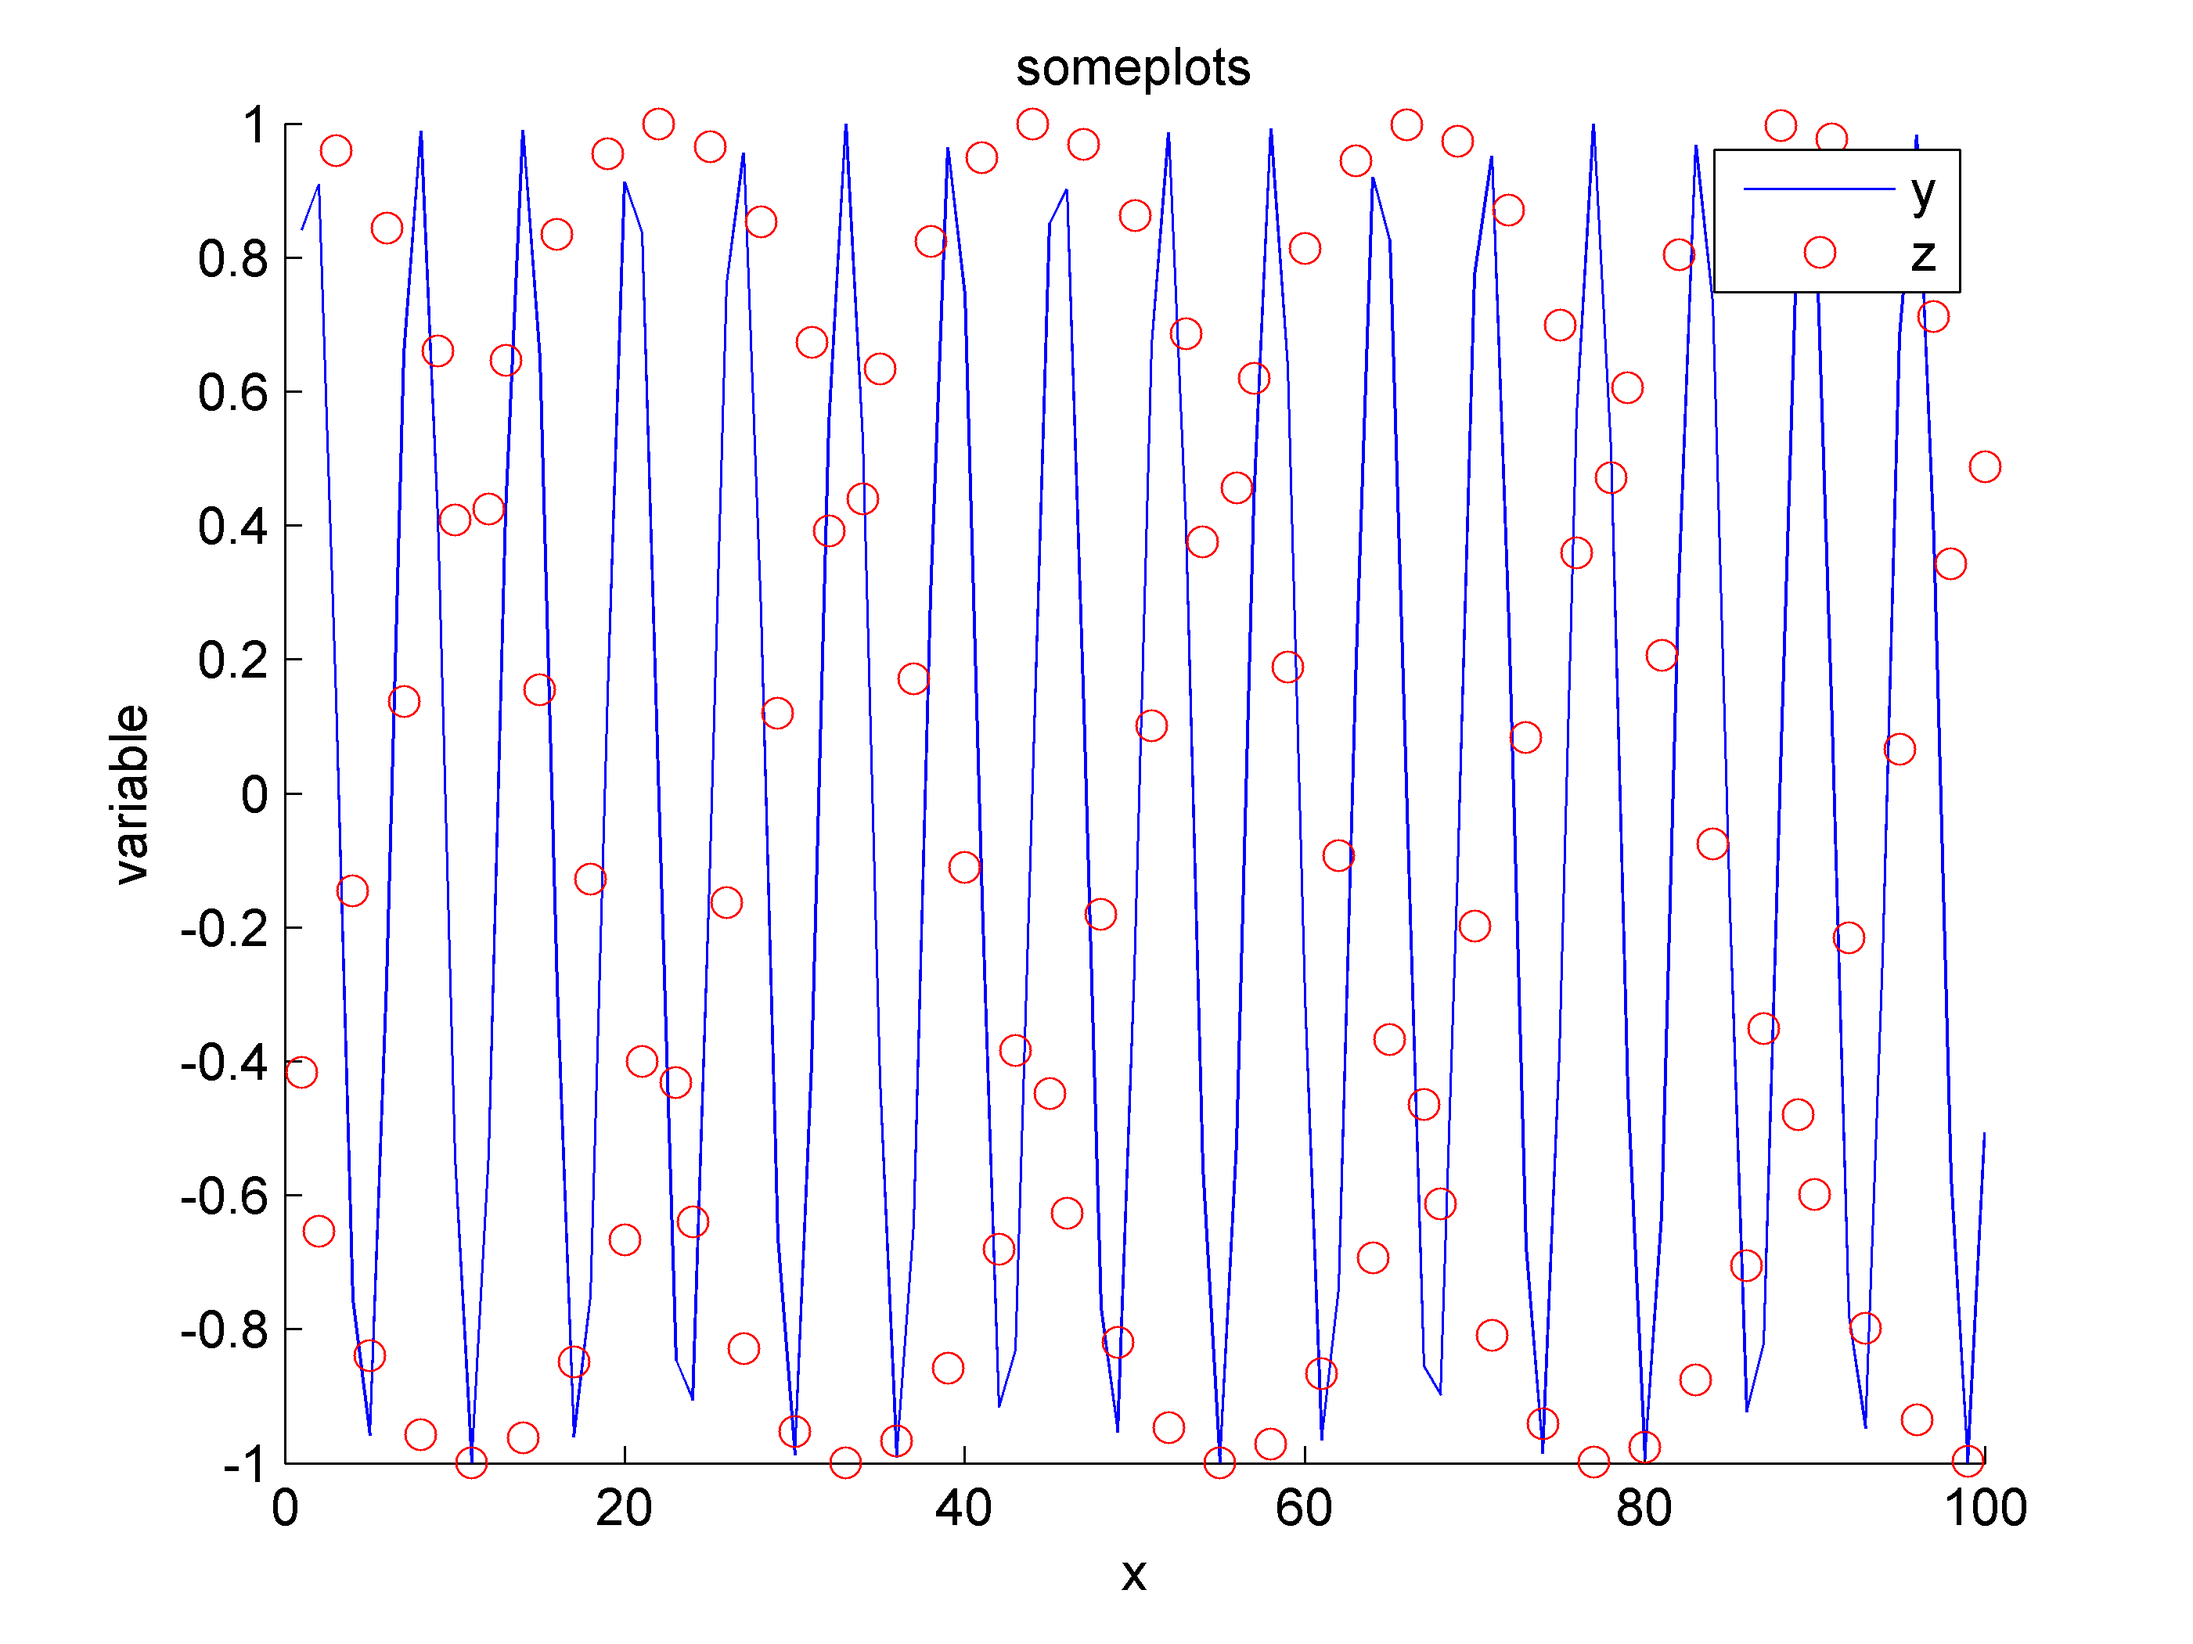
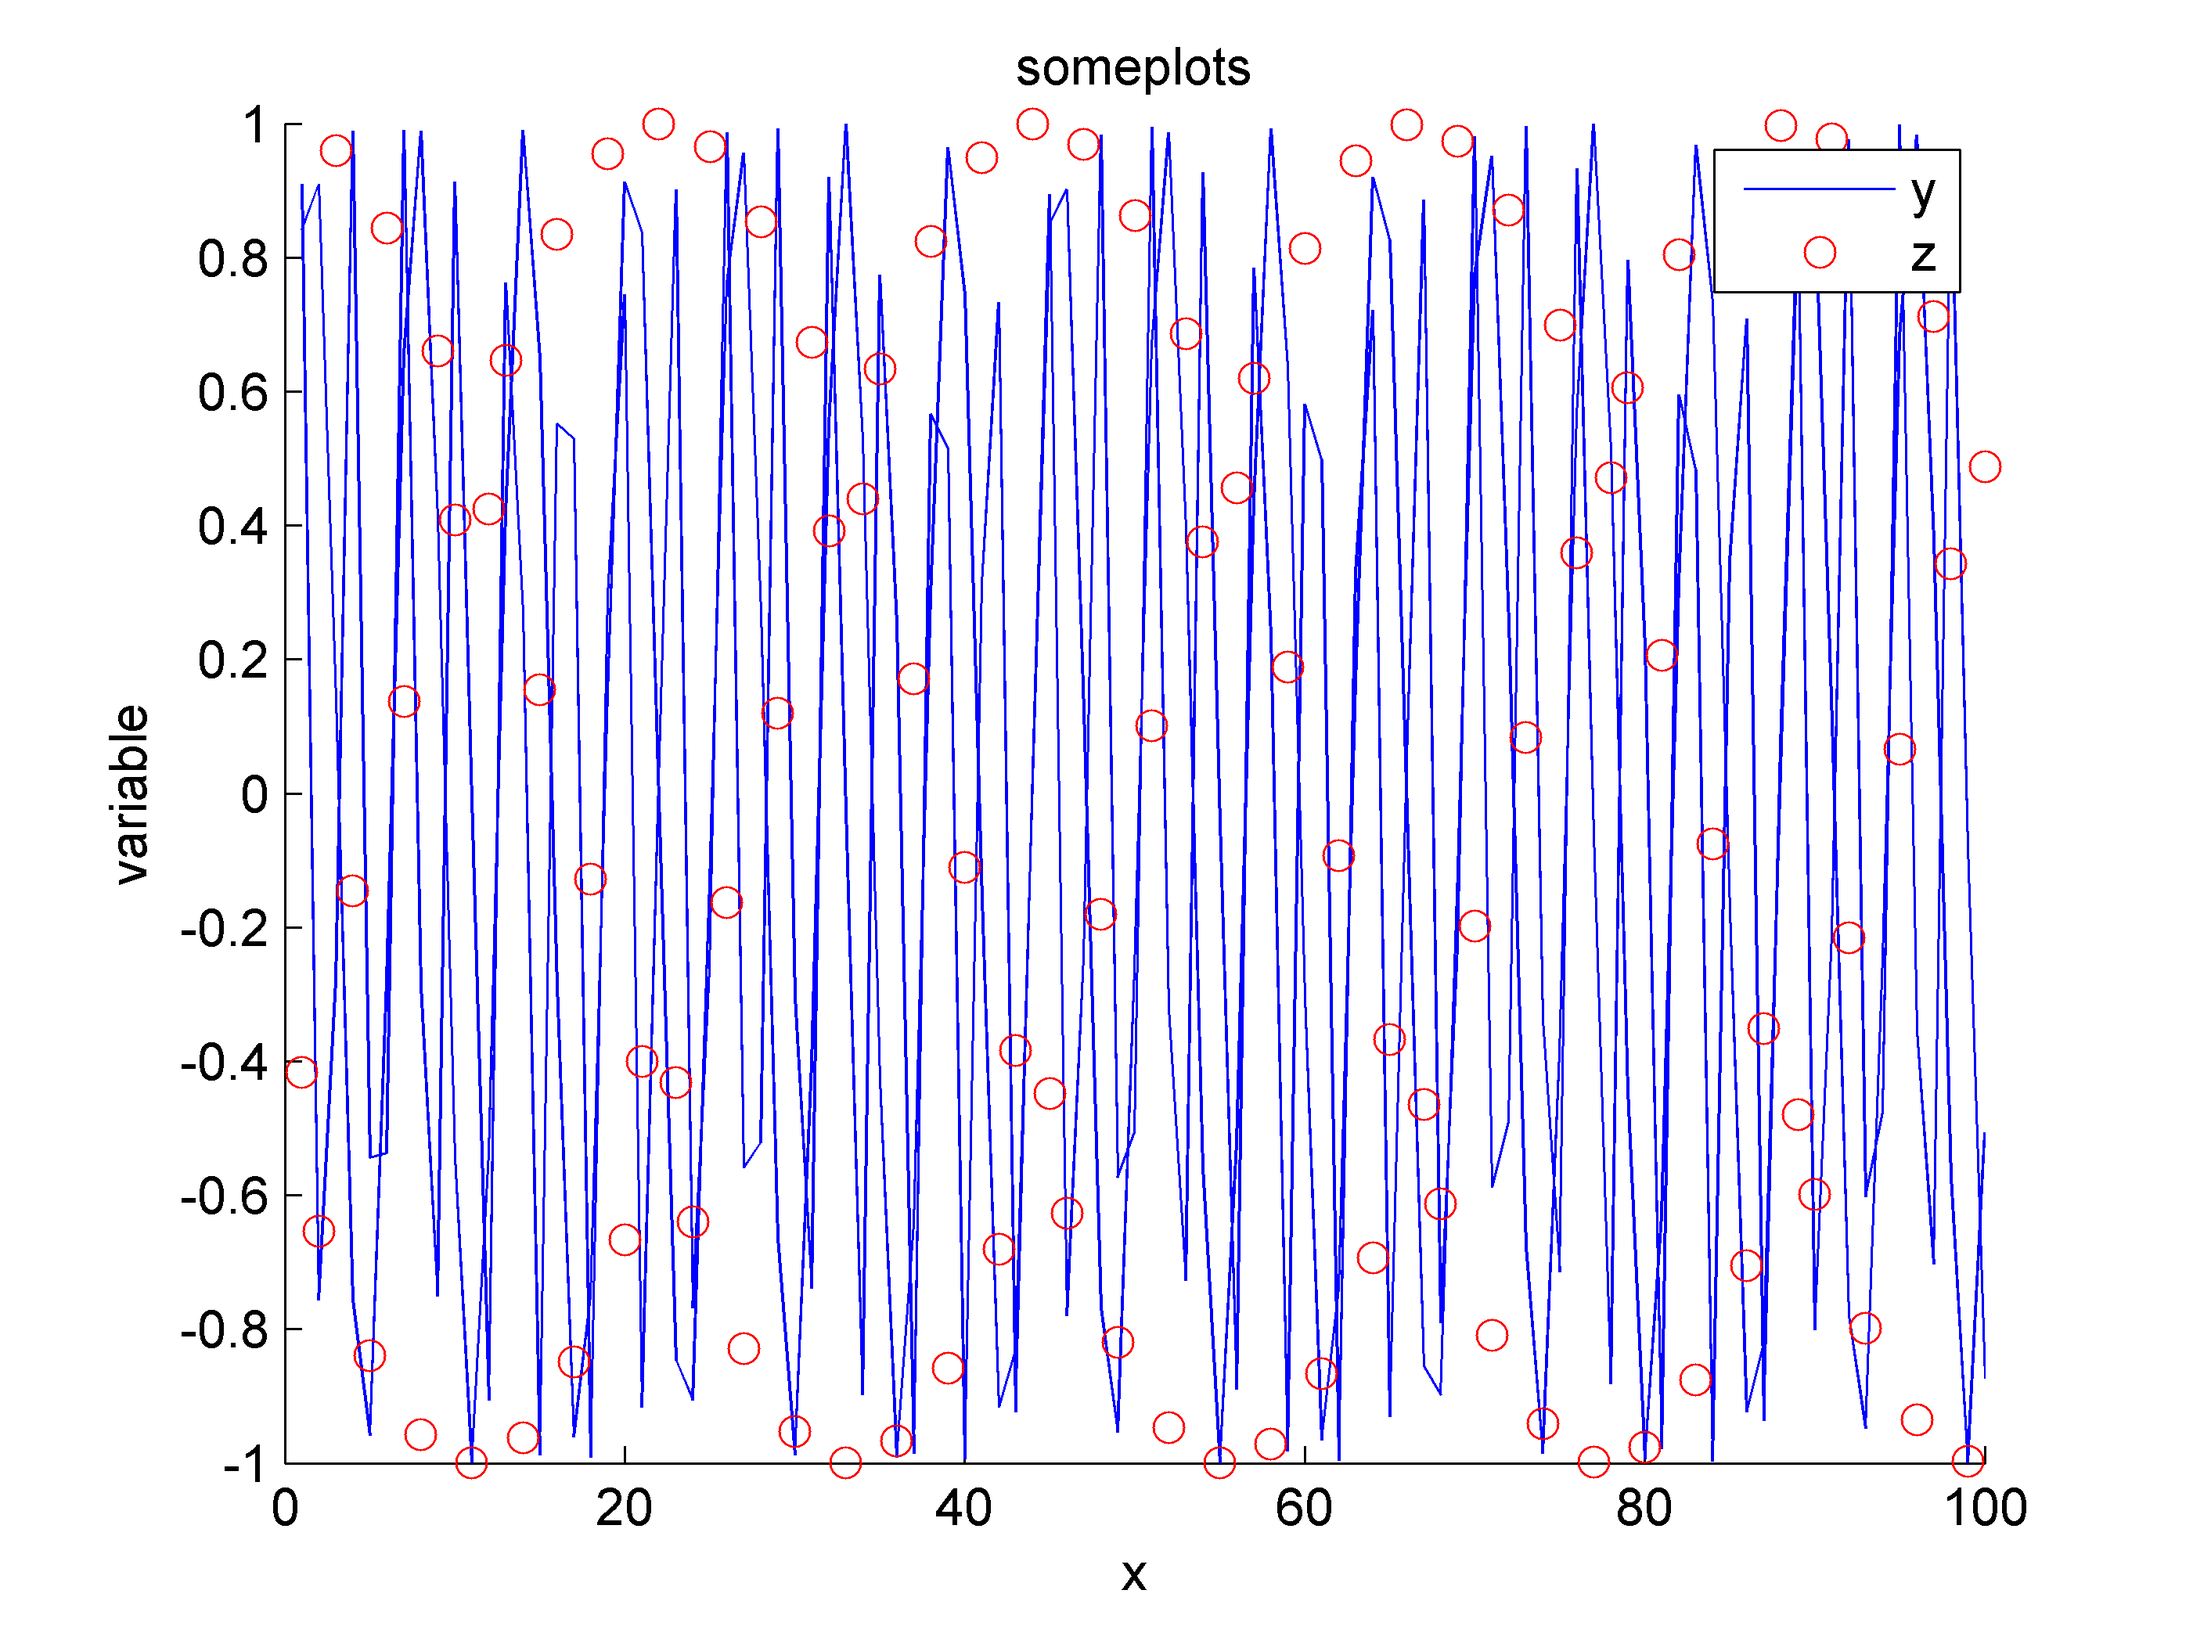
changed y to sin(2x)

diff --git a/Scripts/makeplots.m b/Scripts/makeplots.m
@@ -1,7 +1,7 @@
 function makeplots
 
 x=1:1:100;
-y=sin(x);
+y=sin(2*x);
 z=cos(2*x);
 
 figure(1);
